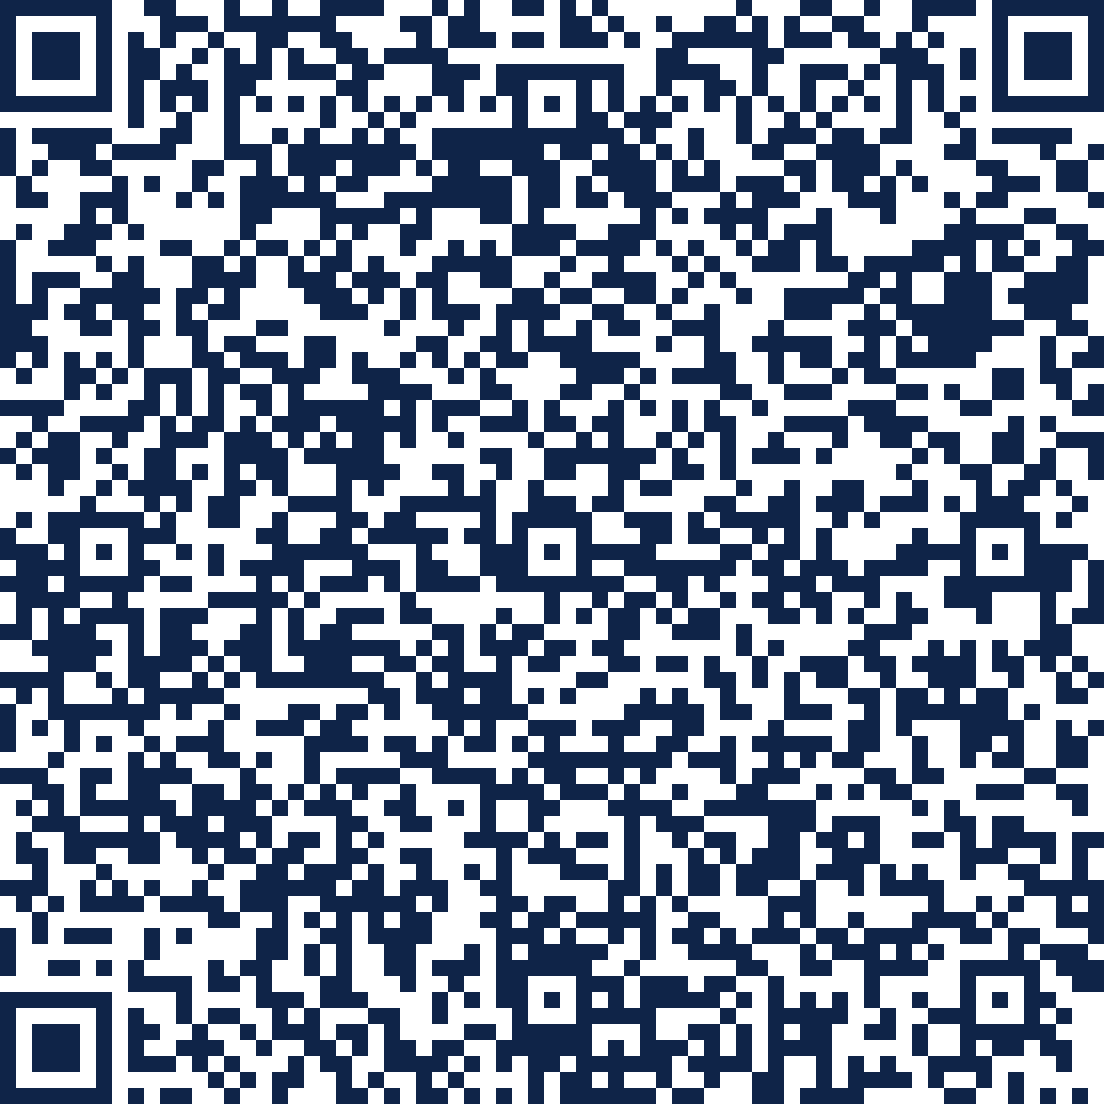
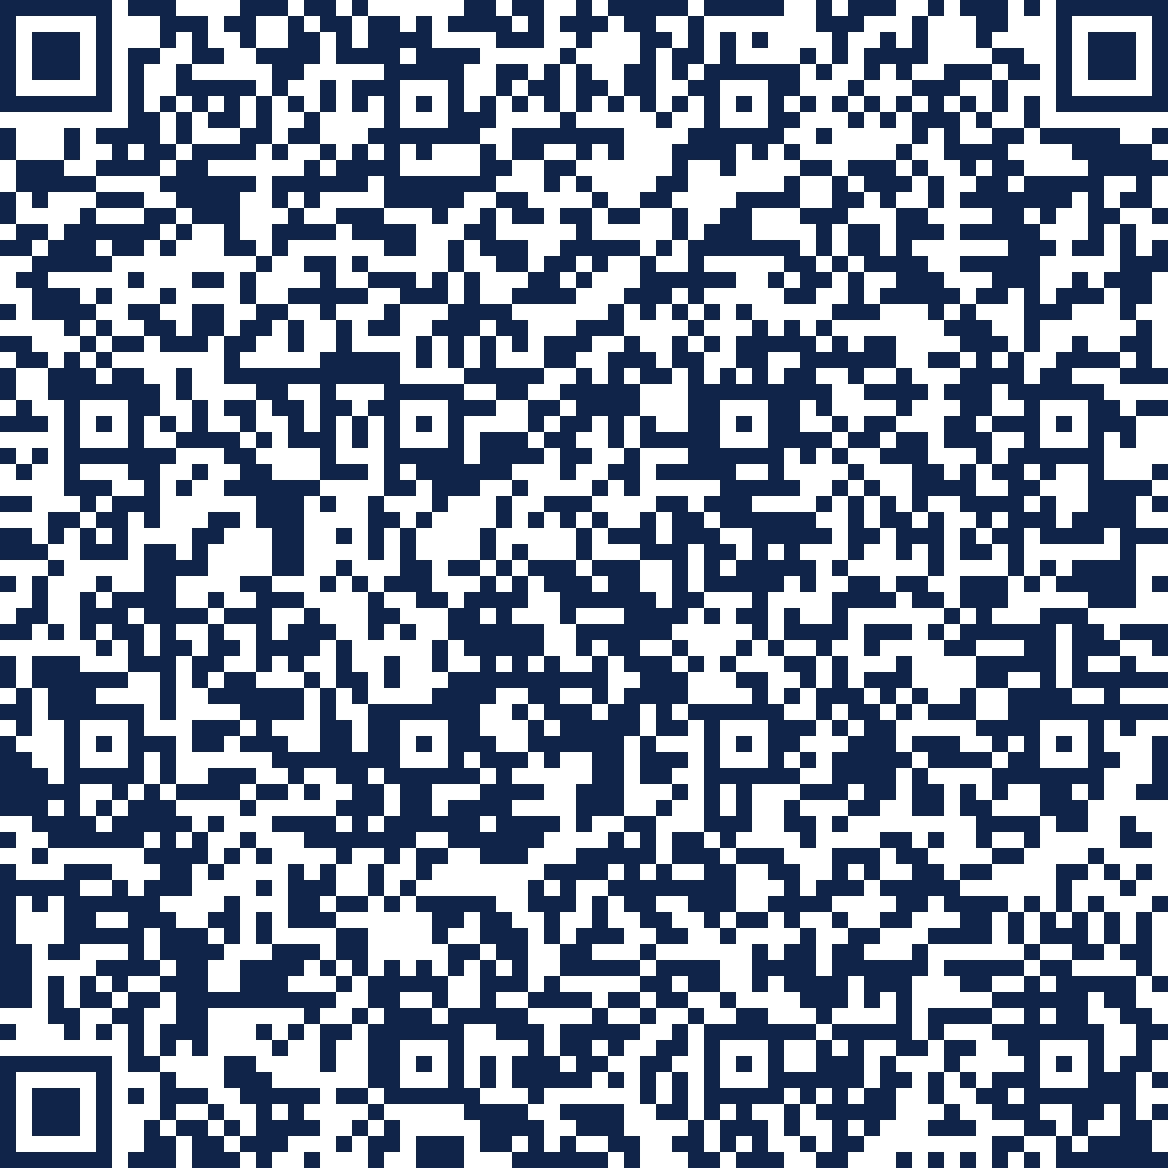
QR 명함 이미지에 연제지점·서부산지점 주소 추가, 연락처 QR 재생성
Claude-Session: https://claude.ai/code/session_01SxCCn4wd2tUsXpUcGNWLyN

diff --git a/_ops/qrcard/card.html b/_ops/qrcard/card.html
@@ -10,12 +10,12 @@ body{width:1800px;height:1000px;background:linear-gradient(180deg,#fdfaf4 0%,#f3
 .hd .n{color:#0f2448;font-size:68px;font-weight:900;margin-top:4px;letter-spacing:8px}
 .hd .n small{font-size:34px;font-weight:700;letter-spacing:2px;margin-left:18px;color:#3a4456}
 .row{position:absolute;left:90px;right:90px;top:250px;display:flex;gap:50px}
-.p{flex:1;background:#fff;border:2px solid #eee3cd;box-shadow:0 10px 30px rgba(162,123,58,.12);border-radius:26px;height:580px;display:flex;align-items:center;gap:40px;padding:0 50px;color:#0f2448}
+.p{flex:1;background:#fff;border:2px solid #eee3cd;box-shadow:0 10px 30px rgba(162,123,58,.12);border-radius:26px;height:540px;display:flex;align-items:center;gap:40px;padding:0 50px;color:#0f2448}
 .p img{width:400px;height:400px;flex:none}
 .p .t b{display:block;font-size:50px;font-weight:900;line-height:1.3}
 .p .t span{display:block;font-size:27px;color:#55606f;margin-top:16px;line-height:1.55}
 .p .t i{display:inline-block;font-style:normal;margin-top:22px;font-size:25px;font-weight:700;color:#0f2448;border-bottom:4px solid #c9a961;padding-bottom:4px}
-.ft{position:absolute;left:90px;right:90px;bottom:34px;display:flex;flex-direction:column;gap:12px;border-top:2px solid #c9a961;padding-top:22px;font-size:26px;color:#3a4456}
+.ft{position:absolute;left:90px;right:90px;bottom:28px;display:flex;flex-direction:column;gap:8px;border-top:2px solid #c9a961;padding-top:16px;font-size:26px;color:#3a4456}
 .ft b{color:#0f2448;font-size:34px;letter-spacing:2px}
 </style></head><body>
 <div class="hd"><img src="profile.jpg"><div><div class="o"><img src="kacta-mark.png" style="width:34px;height:34px;vertical-align:-7px;margin-right:10px">세무법인 인성</div><div class="n serif">남기원<small>지점대표세무사</small></div></div></div>
@@ -23,5 +23,5 @@ body{width:1800px;height:1000px;background:linear-gradient(180deg,#fdfaf4 0%,#f3
 <div class="p"><img src="home.png"><div class="t"><b class="serif">홈페이지<br>바로가기</b><span>세무 칼럼 · 카드뉴스<br>상담 안내</span><i>카메라로 스캔</i></div></div>
 <div class="p"><img src="vcard.png"><div class="t"><b class="serif">연락처<br>저장하기</b><span>이름·전화·이메일이<br>바로 저장됩니다</span><i>카메라로 스캔</i></div></div>
 </div>
-<div class="ft"><span>양도 · 상속 · 증여세 · 종합소득세 · 개인사업자 · 법인사업자 · 세무조사 · 불복 · 경정청구</span><b>010-7741-4822<em style="font-style:normal;margin-left:36px">recaro798@gmail.com</em><em style="font-style:normal;margin-left:36px">팩스 051-861-9995</em></b></div>
+<div class="ft"><span><b style="font-size:26px;letter-spacing:0">연제지점</b> 부산 연제구 월드컵대로 153 연희빌딩 3층 &nbsp;·&nbsp; <b style="font-size:26px;letter-spacing:0">서부산지점</b> 부산 서구 구덕로 201</span><span>양도 · 상속 · 증여세 · 종합소득세 · 개인사업자 · 법인사업자 · 세무조사 · 불복 · 경정청구</span><b>010-7741-4822<em style="font-style:normal;margin-left:36px">recaro798@gmail.com</em><em style="font-style:normal;margin-left:36px">팩스 051-861-9995</em></b></div>
 </body></html>
